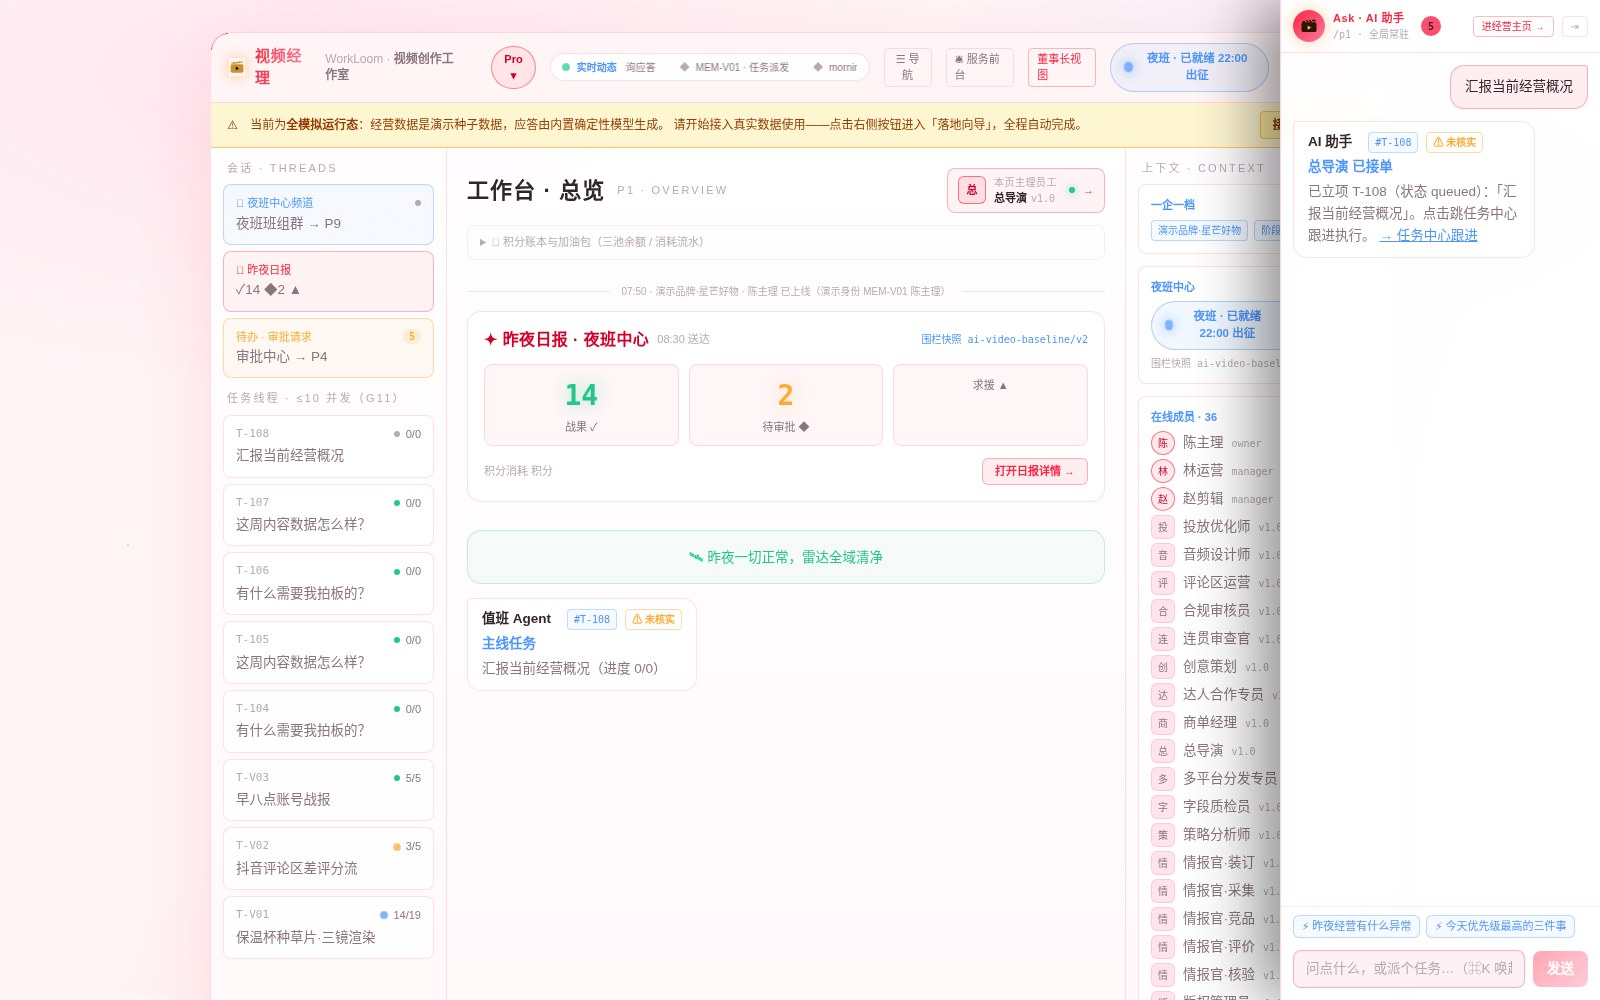
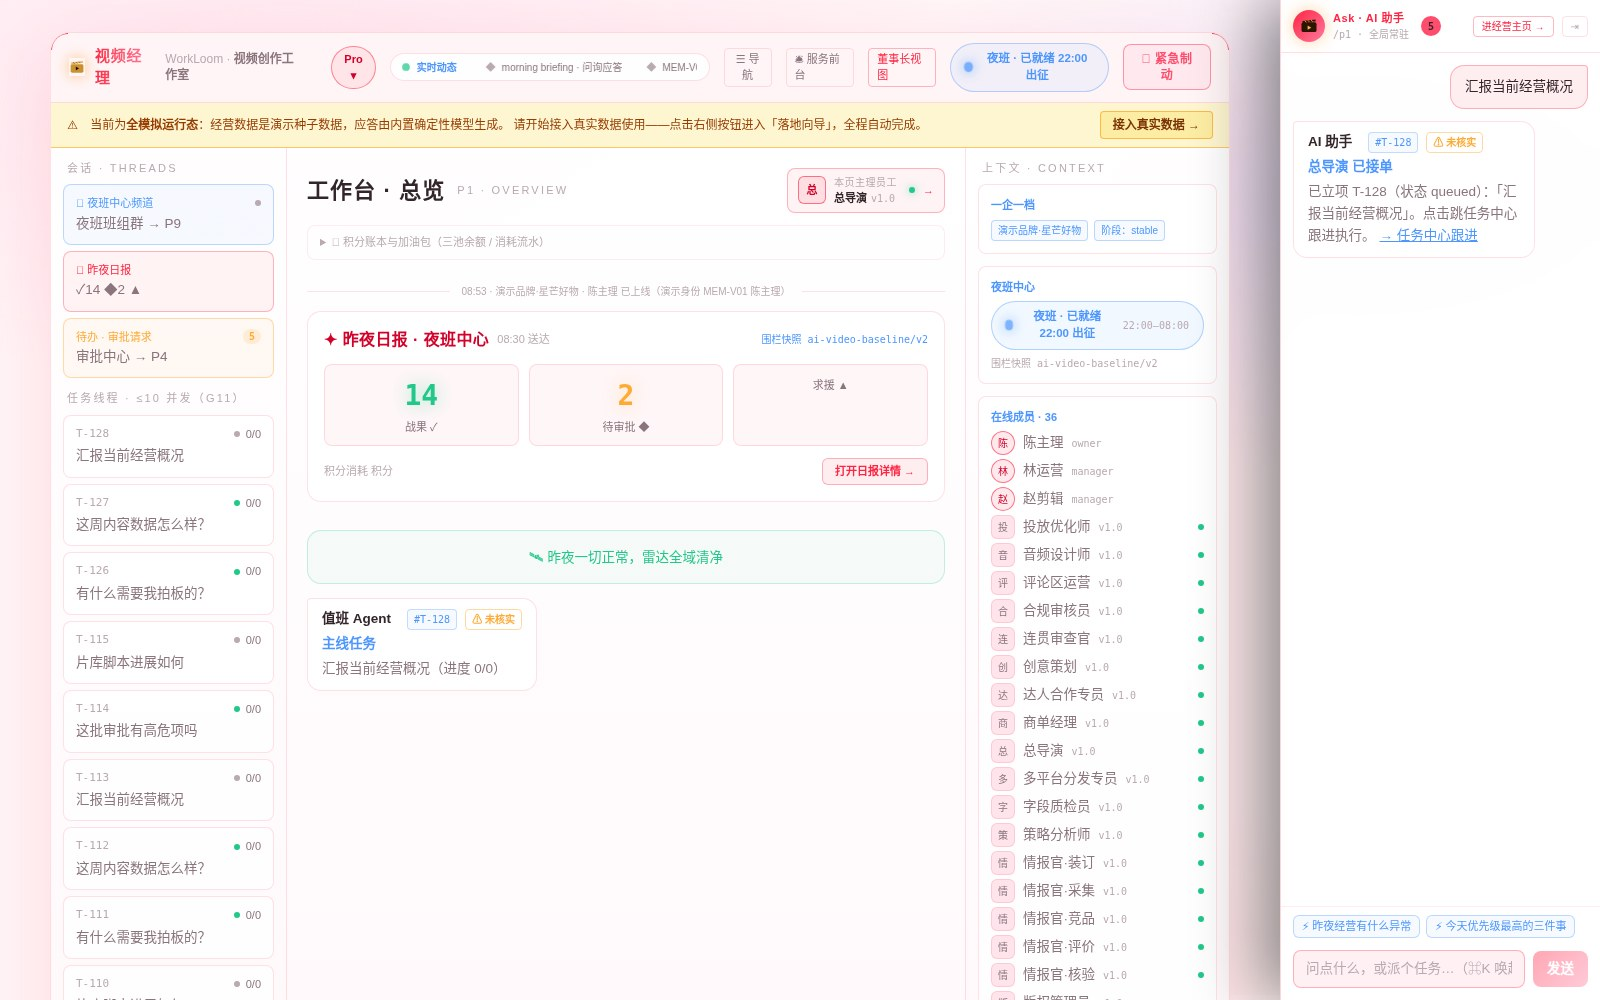
fix(web): 修复 Ask 通栏遮盖主区内容——StrictMode 双挂载下 askrail-width 事件错过致 Bridge 占位归零，宽度落 window 供挂载即对齐（suite 452/452 全绿）；docs(shots): 按修复后运行态原样重截 PC 八页

diff --git a/apps/web/src/lib/useAskRail.ts b/apps/web/src/lib/useAskRail.ts
@@ -2,14 +2,21 @@ import { useEffect, useState } from "react";
 
 /**
  * AskRail 布局协作 hook：右侧通栏 Ask 对话框常驻时，主区容器预留其宽度。
- * AI 助手组件经 window 自定义事件 askrail-width 广播当前栏宽（320 展开 / 56 收起 / 0 卸载）。
+ * AI 助手组件经 window 自定义事件 askrail-width 广播当前栏宽（320 展开 / 56 收起 / 0 卸载），
+ * 并把当前值落在 window.__askRailW 上——后挂载的消费方以此为初始值，
+ * 避免 StrictMode 双挂载 / 挂载时序导致事件错过、主区被通栏覆盖。
  * Bridge 与 P0（不走 Bridge 的全页剧场）共用。
  */
 export function useAskRailPadding(): number {
-  const [railW, setRailW] = useState(320);
+  const [railW, setRailW] = useState(
+    () => (window as unknown as { __askRailW?: number }).__askRailW ?? 320,
+  );
   useEffect(() => {
     const onRail = (e: Event) => setRailW((e as CustomEvent<{ width: number }>).detail.width);
     window.addEventListener("askrail-width", onRail);
+    // 挂载即对齐一次当前栏宽——StrictMode 双挂载 / 挂载时序下事件可能错过，以此为准
+    const cur = (window as unknown as { __askRailW?: number }).__askRailW;
+    if (typeof cur === "number") setRailW(cur);
     return () => window.removeEventListener("askrail-width", onRail);
   }, []);
   return railW;

diff --git a/apps/web/src/components/star-ring/StarRing.tsx b/apps/web/src/components/star-ring/StarRing.tsx
@@ -63,8 +63,9 @@ function ClapperIcon({ size = 24 }: { size?: number }) {
   );
 }
 
-/** 布局事件：通知 Bridge 预留右侧空间 */
+/** 布局事件：通知 Bridge 预留右侧空间（同时在 window 落一份当前值，供后挂载的页面初始化读取） */
 function emitRailWidth(w: number) {
+  (window as unknown as { __askRailW: number }).__askRailW = w;
   window.dispatchEvent(new CustomEvent("askrail-width", { detail: { width: w } }));
 }
 
